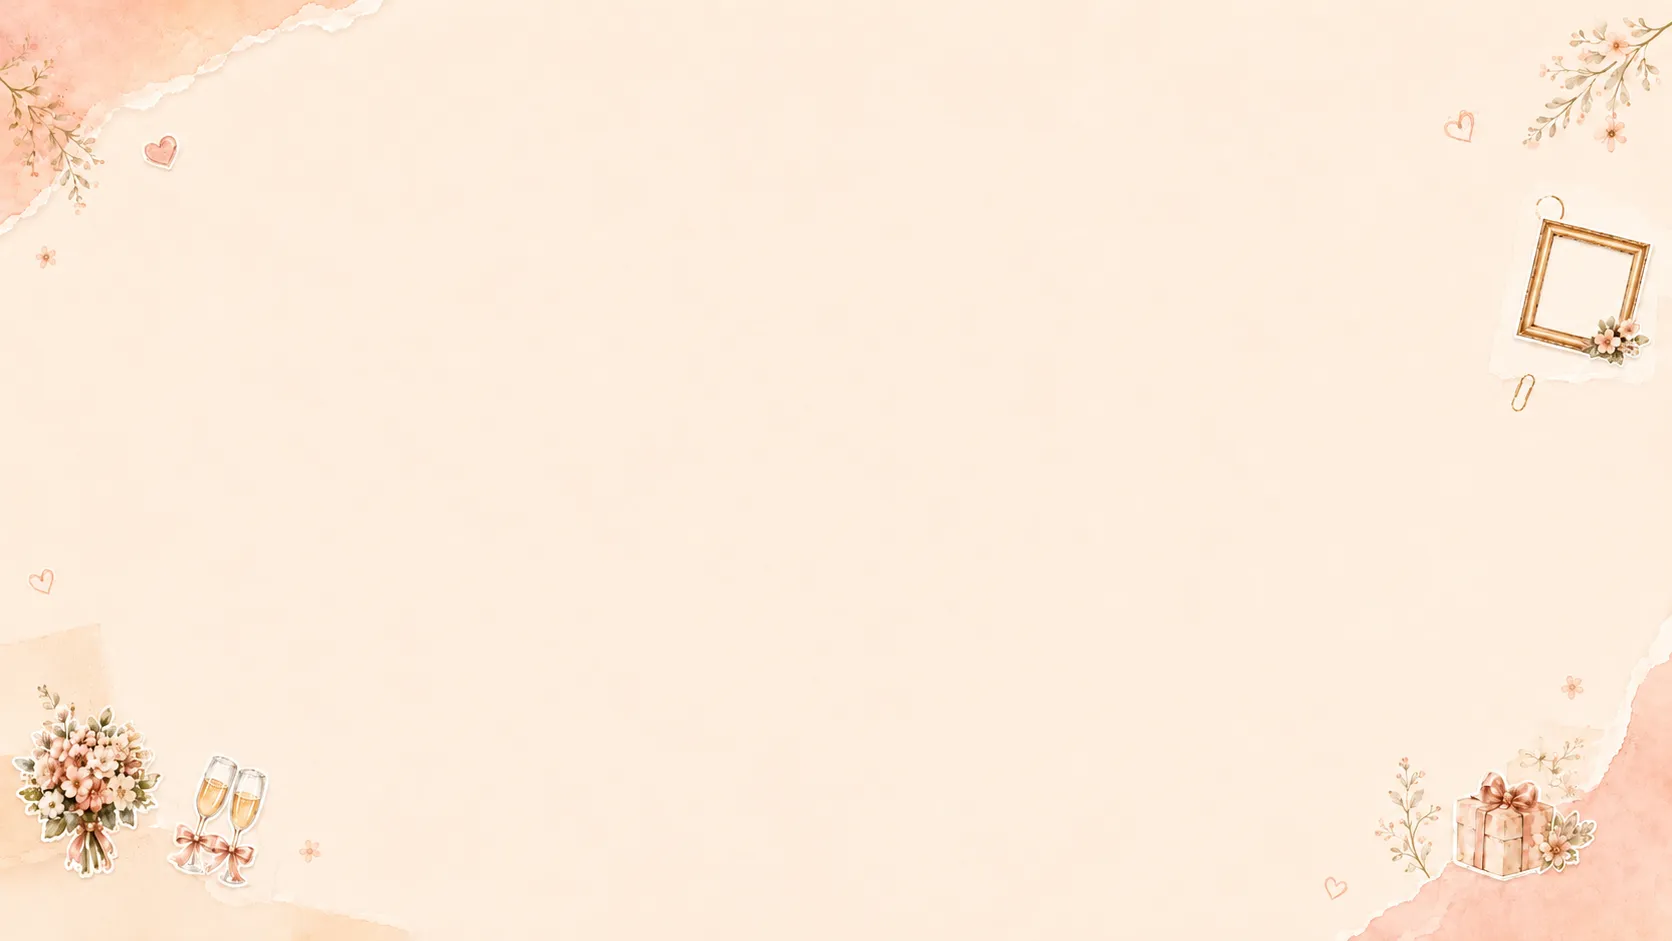
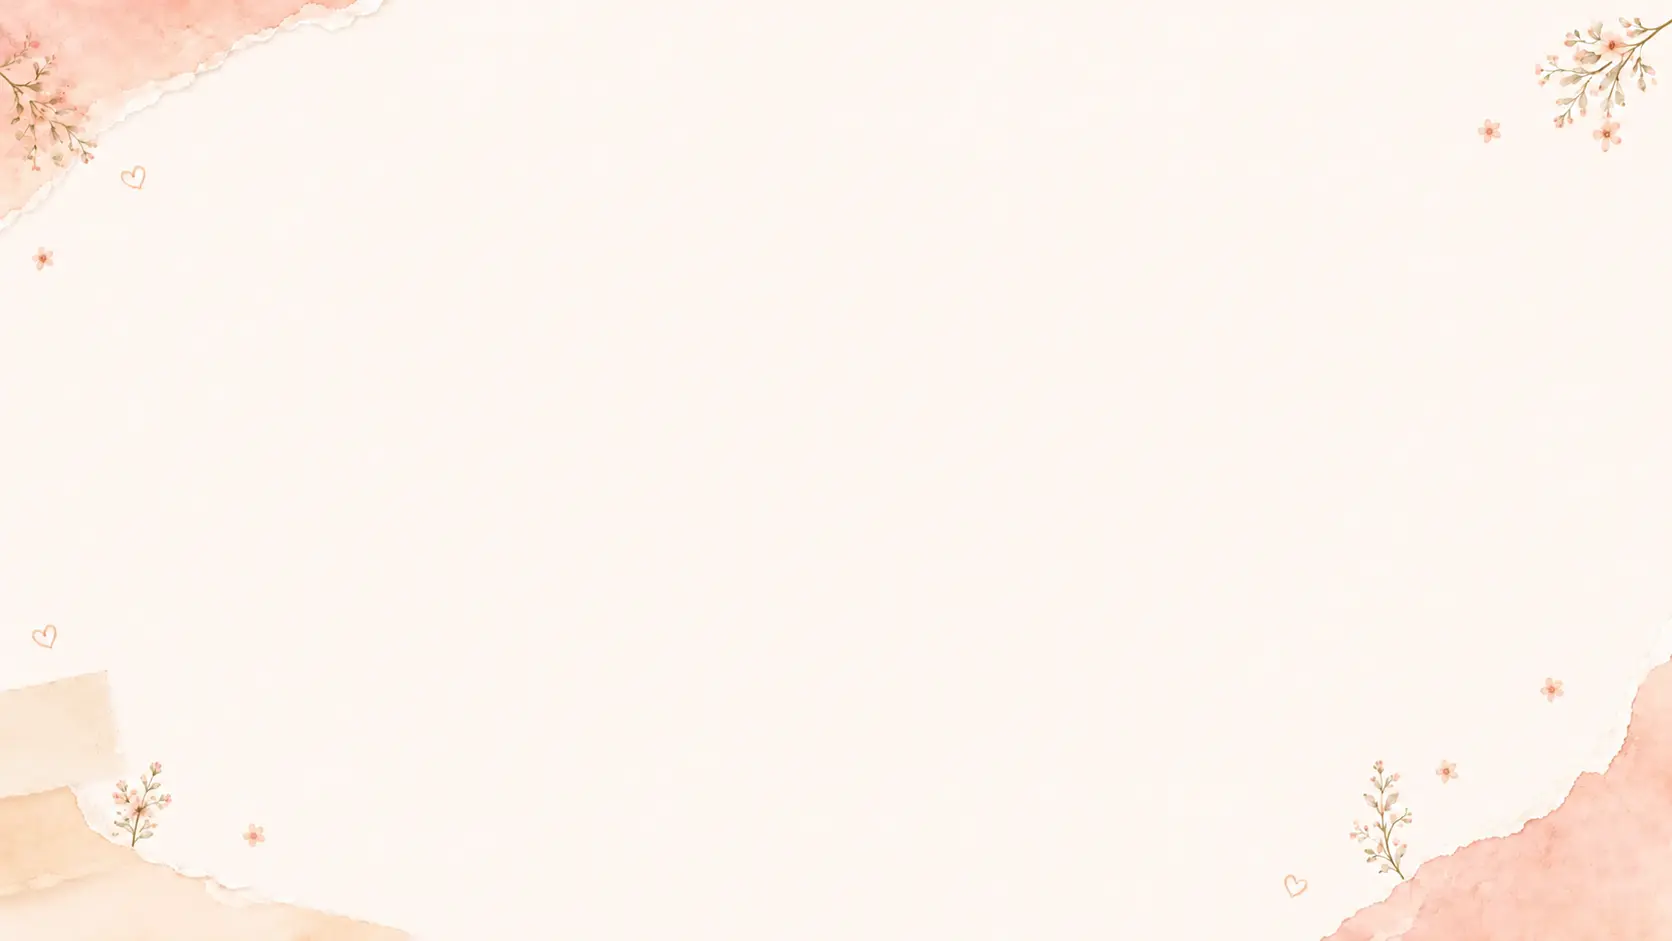
update

diff --git a/app/pages/index.vue b/app/pages/index.vue
@@ -105,6 +105,8 @@ const showIntroOverlay = ref(true)
 const loading = ref(true)
 const HISTORY_FETCH_LIMIT = 100
 
+const itemKey = (item: QueueHistoryItem) => item.id || item.token || ''
+
 // ====== Layout Math: Fermat's Spiral with Collision Detection ======
 const ITEM_SIZE = 150 
 const MARGIN = -20 // Increase margin significantly
@@ -257,102 +259,94 @@ const getStoredPosition = (index: number) => {
 const ENTRY_ANIMATION_COUNT = 20 // 入場只對前 N 張播 fly-in，其餘直接出現在定位
 let isFirstRender = true
 let isReflowing = false
+let reflowQueued = false
 
-const playReflowSequence = async () => {
-  if (isReflowing) return
-  isReflowing = true
-
-  await nextTick()
-  const canvasEl = canvasRef.value ? ((canvasRef.value as any).$el || canvasRef.value) : null
-  if (!canvasEl) {
-    isReflowing = false
-    return
+// 每張便利貼的傾斜角固定綁在 id 上。若每次 reflow 都重抽亂數，
+// 新便利貼進場時整面牆會跟著抖一下。
+const rotationById = new Map<string, number>()
+const getRotation = (id: string) => {
+  let rotation = rotationById.get(id)
+  if (rotation === undefined) {
+    rotation = (Math.random() - 0.5) * 15
+    rotationById.set(id, rotation)
   }
-
-  const elements = Array.from(canvasEl.querySelectorAll('.p-index__note-wrap'))
-  if (!elements.length) {
-    isReflowing = false
-    return
-  }
-
-  if (isFirstRender) {
-    const totalCount = elements.length
-    calculatePositions(displayItems.value.length)
-
-    elements.forEach((el, index) => {
-      const pos = getStoredPosition(index)
-      const element = el as HTMLElement
-      element.style.zIndex = `${1000 - index}`
-      const rotation = (Math.random() - 0.5) * 15
-
-      if (index < ENTRY_ANIMATION_COUNT) {
-        // 前 30 張：fly-in 動畫，延遲上限避免 iOS 負擔
-        const animDelay = Math.min(index * 0.05, 1.5)
-        gsap.to(element, {
-          x: pos.x,
-          y: pos.y,
-          scale: 1,
-          opacity: 1,
-          rotation,
-          duration: 1.2 + Math.random() * 0.5,
-          ease: 'power3.out',
-          delay: animDelay
-        })
-      } else {
-        // 第 31 張起：直接出現在應有位置
-        gsap.set(element, {
-          x: pos.x,
-          y: pos.y,
-          scale: 1,
-          opacity: 1,
-          rotation
-        })
-      }
-    })
-    isFirstRender = false
-    isReflowing = false
-    return
-  }
-
-  // Reflow: 直接從目前位置動畫到新位置（不再先收斂到原點）
-  calculatePositions(displayItems.value.length)
-
-  elements.forEach((el, index) => {
-    const pos = getStoredPosition(index)
-    const element = el as HTMLElement
-    element.style.zIndex = `${1000 - index}`
-
-    gsap.to(element, {
-      x: pos.x,
-      y: pos.y,
-      scale: 1,
-      opacity: 1,
-      rotation: (Math.random() - 0.5) * 15,
-      duration: 1.0 + Math.random() * 0.4,
-      ease: 'power3.out',
-      delay: Math.random() * 0.1
-    })
-  })
-  isReflowing = false
+  return rotation
 }
 
-let leavingCount = 0
+const playReflowSequence = async () => {
+  // 正在跑就排隊，不要直接丟掉這次請求：
+  // 便利貼在 CSS 預設是 opacity:0 / scale(0)，只有這裡的 gsap 會讓它現身。
+  // 一旦這次請求被丟掉，那張新便利貼就永遠停在透明狀態（＝看起來沒刷新）。
+  if (isReflowing) {
+    reflowQueued = true
+    return
+  }
+  isReflowing = true
 
+  try {
+    await nextTick()
+    const canvasEl = canvasRef.value ? ((canvasRef.value as any).$el || canvasRef.value) : null
+    if (!canvasEl) return
+
+    // 用 data-id 對應 DOM 節點，而不是依賴 querySelectorAll 的順序：
+    // 正在淡出（leave）的節點還留在 DOM 裡，用索引對位會整排錯開。
+    const nodeById = new Map<string, HTMLElement>()
+    canvasEl.querySelectorAll('.p-index__note-wrap').forEach((el: Element) => {
+      const id = (el as HTMLElement).dataset.id
+      if (id) nodeById.set(id, el as HTMLElement)
+    })
+    if (!nodeById.size) return
+
+    calculatePositions(displayItems.value.length)
+    const firstRender = isFirstRender
+
+    displayItems.value.forEach((item, index) => {
+      const element = nodeById.get(itemKey(item))
+      if (!element) return
+
+      const pos = getStoredPosition(index)
+      element.style.zIndex = `${1000 - index}`
+
+      const target = {
+        x: pos.x,
+        y: pos.y,
+        scale: 1,
+        opacity: 1,
+        rotation: getRotation(itemKey(item))
+      }
+
+      // 首次載入且排在 ENTRY_ANIMATION_COUNT 之後：直接出現在定位，避免行動裝置一次跑上百個動畫
+      if (firstRender && index >= ENTRY_ANIMATION_COUNT) {
+        gsap.set(element, target)
+        return
+      }
+
+      gsap.to(element, {
+        ...target,
+        duration: firstRender ? 1.2 + Math.random() * 0.5 : 1.0 + Math.random() * 0.4,
+        ease: 'power3.out',
+        // 首次載入才做階梯式延遲（上限 1.5s 避免 iOS 負擔）；之後的新便利貼要馬上飛進來
+        delay: firstRender ? Math.min(index * 0.05, 1.5) : Math.random() * 0.1
+      })
+    })
+
+    isFirstRender = false
+  } finally {
+    isReflowing = false
+    if (reflowQueued) {
+      reflowQueued = false
+      void playReflowSequence()
+    }
+  }
+}
+
+// 被擠掉的便利貼原地淡出即可。存活的便利貼由 displayItems 的 watcher 立刻重新排版，
+// 不需要等淡出結束（等的話，新便利貼會延遲 0.6s 才現身）。
 const onLeave = (el: Element, done: () => void) => {
-  leavingCount++
-  
-  // Fade out in place, then remove
   gsap.to(el, {
     opacity: 0,
     duration: 0.6,
-    onComplete: () => {
-      done()
-      leavingCount--
-      // Only recalculate layout for surviving nodes once ALL leaving nodes have finished their animation
-      if (leavingCount === 0) {
-        playReflowSequence()
-      }
-    }
+    onComplete: done
   })
 }
 
@@ -365,16 +359,18 @@ const onStartClick = () => {
   })
 }
 
-// Watch array changes（overlay 還開著時不播動畫，等點「開始」再播）
+// 監看「牆上有哪些便利貼」而不是「有幾張」。
+// 只看長度會漏掉最關鍵的情況：牆上已經有 HISTORY_FETCH_LIMIT 張時，
+// 新便利貼進來會同時把最舊的那張擠出查詢範圍，長度不變（100 → 100），
+// 於是不會重新排版，新便利貼就一直停在 opacity:0，牆看起來像沒更新。
+// （overlay 還開著時不播動畫，等點「查看留言板」再播）
 watch(
-  () => displayItems.value.length,
-  async (newLen, oldLen) => {
+  () => displayItems.value.map(itemKey).join('|'),
+  () => {
     if (showIntroOverlay.value) return
-    if (newLen > oldLen) {
-      setTimeout(() => {
-        playReflowSequence()
-      }, 50)
-    }
+    setTimeout(() => {
+      playReflowSequence()
+    }, 50)
   }
 )
 
@@ -393,8 +389,6 @@ const appendItemsInBatches = async (
     await waitForNextFrame()
   }
 }
-
-const itemKey = (item: QueueHistoryItem) => item.id || item.token || ''
 
 /**
  * 後續快照：只做增量更新，不整份重建。
@@ -443,15 +437,27 @@ onMounted(async () => {
 
   // 即時監聽：第一份快照走批次載入（開場動畫），之後的快照做增量更新，
   // 有人送出新的便利貼時牆上會自己長出來，不需要重新整理。
+  //
+  // 用 promise chain 串起來依序套用：開啟了離線快取後，Firestore 會先吐一份 cache 快照、
+  // 緊接著再吐一份 server 快照。batch append 要跨好幾個 frame，第二份快照會插進來
+  // 覆寫 displayItems，而還沒跑完的 append 迴圈接著把舊資料 push 回去，造成重複／內容錯亂。
   let firstSnapshotSeen = false
+  let applyChain: Promise<void> = Promise.resolve()
   const firstSnapshot = new Promise<void>(resolve => {
     unsubscribeHistory = listenToHistory(HISTORY_FETCH_LIMIT, (items) => {
-      if (!firstSnapshotSeen) {
-        firstSnapshotSeen = true
-        appendItemsInBatches(items).finally(resolve)
-      } else {
-        syncItems(items)
-      }
+      applyChain = applyChain
+        .then(async () => {
+          if (!firstSnapshotSeen) {
+            firstSnapshotSeen = true
+            await appendItemsInBatches(items)
+            resolve()
+          } else {
+            syncItems(items)
+          }
+        })
+        .catch(error => {
+          console.warn('[index] 套用便利貼快照失敗', error)
+        })
     })
   })
 

diff --git a/app/pages/canvas.vue b/app/pages/canvas.vue
@@ -272,25 +272,32 @@ const positionMap = reactive<Record<string, { left: number; top: number; rot: nu
    版面配置：中間 Logo + 大張 display，左右各 8 張、中間下方 2 張
    ══════════════════════════════════════════════ */
 
-/** 左右兩側各自的欄 / 列數（2×4 = 8 張／側） */
+/**
+ * 左右兩側各自的欄 / 列數（2 欄 × 3 列 = 6 張／側）。
+ * 由左到右每一直行的張數即為 3 / 3 / 1 / 1 / 3 / 3（中間兩行只有 display 下方那一張）。
+ */
 const SIDE_COLS = 2
-const SIDE_ROWS = 4
-/** 中間下方張數 */
+const SIDE_ROWS = 3
+/** 中間下方張數（即中間兩行各 1 張） */
 const BOTTOM_COUNT = 2
-/** 版面總格數 = 左 8 + 右 8 + 下 2 */
+/** 版面總格數 = 左 6 + 右 6 + 下 2 = 14 */
 const SLOT_TOTAL = SIDE_COLS * SIDE_ROWS * 2 + BOTTOM_COUNT
-/** display 與周圍便利貼的最小間距（佔 display 邊長比例） */
-const DISPLAY_GAP_RATIO = 0.04
+/**
+ * display 與周圍便利貼的最小間距（佔 display 邊長比例）。
+ * 這個間距同時決定左右兩區的寬度與中下區的寬度（此消彼長）：
+ * 0.1 讓「側邊格寬」與「中下格寬」幾乎相等，便利貼才能一起放到最大。
+ */
+const DISPLAY_GAP_RATIO = 0.1
 
 /** 大張 display 便利貼佔螢幕高 / 寬的比例（取正方形較小邊，另乘 displayScale） */
 const DISPLAY_H_RATIO = 0.52
 const DISPLAY_W_RATIO = 0.30
 /** display 距畫面頂端的比例（讓出上方空間給 Logo） */
-const DISPLAY_TOP_RATIO = 0.26
+const DISPLAY_TOP_RATIO = 0.21
 
 /** 中間最上方 Logo：寬度佔舞台寬的比例、距頂端比例、原圖長寬比（寬度刻意與 display 齊寬）*/
-const LOGO_W_RATIO = 0.3
-const LOGO_TOP_RATIO = 0.04
+const LOGO_W_RATIO = 0.26
+const LOGO_TOP_RATIO = 0.025
 const LOGO_ASPECT = 2045 / 769
 /**
  * 散落區四邊留白：取舞台短邊的比例（最少 24px）。
@@ -299,9 +306,20 @@ const LOGO_ASPECT = 2045 / 769
 const SCATTER_EDGE = 24
 const SCATTER_EDGE_RATIO = 0.05
 /** 便利貼佔格子的比例：刻意小於 1，剩下的空隙就是「錯位」可以用的範圍 */
-const NOTE_FILL = 0.84
-/** 錯位幅度：用掉格子剩餘空隙的比例（<1 保留最小間距，故不會互相重疊） */
-const SCATTER_JITTER = 0.85
+const NOTE_FILL = 0.9
+/**
+ * 錯位幅度：用掉格子剩餘空隙的比例（<1 保留最小間距，故不會互相重疊）。
+ * 刻意壓低，把格內空間讓給下面的弧線位移（ARC_*）——兩者共用同一份空隙。
+ */
+const SCATTER_JITTER = 0.35
+/**
+ * 弧線：左右每一欄（含最外側）的「上下兩張」往 display 靠攏、中間那張往外退，
+ * 讓每欄三張圍成一道弧線把大張框起來。單位為便利貼邊長比例。
+ */
+const ARC_RATIO = 0.15
+const ARC_MID_RATIO = 0.06
+/** 中下兩張往中央靠攏的距離（便利貼邊長比例）：讓出空間給上方弧線的下緣那張 */
+const BOTTOM_INWARD_RATIO = 0.065
 /** 隨機旋轉角度總範圍（度）：實際為 ±一半 */
 const SCATTER_ROT_RANGE = 18
 
@@ -380,15 +398,18 @@ function buildSlots(W: number, H: number): { slots: Slot[]; noteSize: number } {
   const colW = sideW / SIDE_COLS
   const rowH = (H - edge * 2) / SIDE_ROWS
 
-  // 中下區：display 底部到畫面下緣，橫向與 display 同寬
+  // 中下區：display 底部到畫面下緣。
+  // 橫向可用到左右兩區之間的整段（display 寬 + 兩側間距），這樣兩張才不會擠在一起；
+  // 下緣留白取一般留白的 0.55 倍——畫面正下方沒有背景花飾，可以更靠近底部換取更大張。
   const bottomTop = d.top + d.size + gap
-  const bottomH = (H - edge) - bottomTop
-  const bottomColW = d.size / BOTTOM_COUNT
+  const bottomEdge = edge * 0.55
+  const bottomH = (H - bottomEdge) - bottomTop
+  const bottomSpan = d.size + gap * 2
+  const bottomColW = bottomSpan / BOTTOM_COUNT
 
-  // 全部便利貼同尺寸：尺寸由左右格子決定；中下區只要塞得下就沿用（0.9 留給錯位），
-  // 不讓較矮的中下區把整體便利貼一起縮小
+  // 全部便利貼同尺寸：由格子短邊決定，並確保中下區高度塞得下（0.95 留給錯位）
   const base = Math.min(colW, rowH, bottomColW)
-  const noteSize = Math.max(60, Math.min(base * NOTE_FILL * liveNoteScale.value, bottomH * 0.9))
+  const noteSize = Math.max(60, Math.min(base * NOTE_FILL * liveNoteScale.value, bottomH * 0.95))
 
   const jitter = (span: number) => Math.max(0, (span - noteSize) / 2) * SCATTER_JITTER
   const sideJx = jitter(colW)
@@ -398,17 +419,25 @@ function buildSlots(W: number, H: number): { slots: Slot[]; noteSize: number } {
 
   const slots: Slot[] = []
 
-  // 左 8 張（zone seed 0）／右 8 張（zone seed 10）
-  const sides: { start: number; seed: number; tag: string }[] = [
-    { start: edge, seed: 0, tag: 'L' },
-    { start: W - edge - sideW, seed: 10, tag: 'R' }
+  // 左 6 張（zone seed 0）／右 6 張（zone seed 10）
+  // dir = 朝向 display 的方向：左側為 +1（往右），右側為 -1（往左）
+  const sides: { start: number; seed: number; tag: string; dir: number }[] = [
+    { start: edge, seed: 0, tag: 'L', dir: 1 },
+    { start: W - edge - sideW, seed: 10, tag: 'R', dir: -1 }
   ]
   for (const side of sides) {
     for (let r = 0; r < SIDE_ROWS; r++) {
       for (let c = 0; c < SIDE_COLS; c++) {
         const seedCol = side.seed + c
+        // 弧線：每一欄的上下兩張都靠向 display、中間那張往外退，圍成弧形把大張框起來。
+        // 同一列的兩欄位移量相同 → 欄與欄的間距不變，不會互相擠到。
+        const isEdgeRow = r === 0 || r === SIDE_ROWS - 1
+        const arcShift = isEdgeRow
+          ? side.dir * noteSize * ARC_RATIO
+          : -side.dir * noteSize * ARC_MID_RATIO
+
         slots.push({
-          cx: side.start + (c + 0.5) * colW + (cellNoise(r, seedCol, 1) * 2 - 1) * sideJx,
+          cx: side.start + (c + 0.5) * colW + arcShift + (cellNoise(r, seedCol, 1) * 2 - 1) * sideJx,
           cy: edge + (r + 0.5) * rowH + (cellNoise(r, seedCol, 2) * 2 - 1) * sideJy,
           key: `${side.tag}${r}-${c}`
         })
@@ -418,9 +447,12 @@ function buildSlots(W: number, H: number): { slots: Slot[]; noteSize: number } {
 
   // 中間下方 2 張（zone seed 20）
   const bottomCy = bottomTop + bottomH / 2
+  const bottomLeft = (W - bottomSpan) / 2
   for (let i = 0; i < BOTTOM_COUNT; i++) {
+    // 往中央靠攏，把外側空間讓給內側欄下緣那張的弧線位移
+    const inward = (i === 0 ? 1 : -1) * noteSize * BOTTOM_INWARD_RATIO
     slots.push({
-      cx: d.left + (i + 0.5) * bottomColW + (cellNoise(0, 20 + i, 1) * 2 - 1) * bottomJx,
+      cx: bottomLeft + (i + 0.5) * bottomColW + inward + (cellNoise(0, 20 + i, 1) * 2 - 1) * bottomJx,
       cy: bottomCy + (cellNoise(0, 20 + i, 2) * 2 - 1) * bottomJy,
       key: `B-${i}`
     })